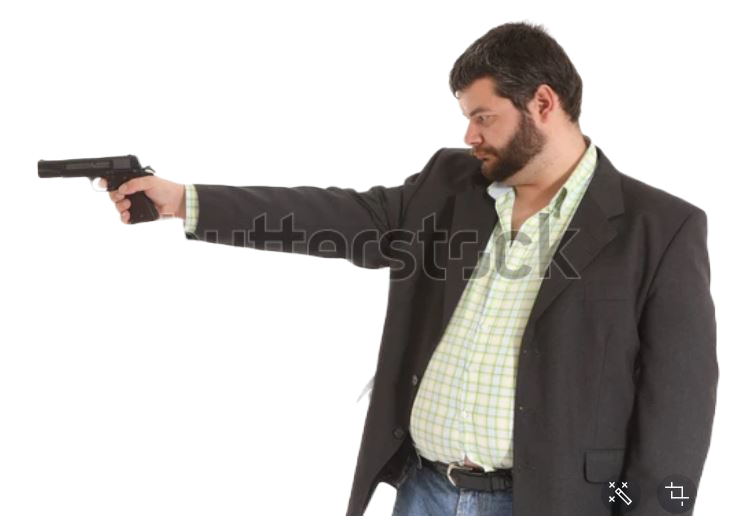
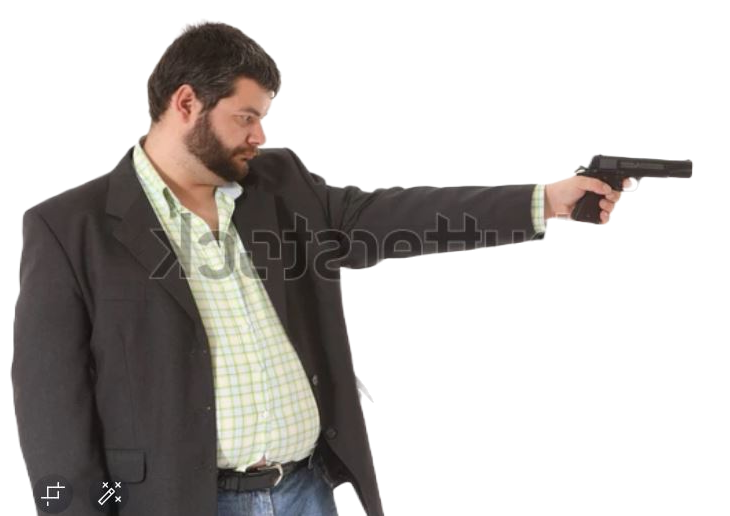
ju

diff --git a/gun oop/sketch.js b/gun oop/sketch.js
@@ -6,6 +6,8 @@
 // - describe what you did to take this project "above and beyond"
 let guy;
 let bulletsAR = [];
+let flash = 0
+let flashimg;
 
 class bullet{
   constructor(x,y){
@@ -14,19 +16,22 @@ class bullet{
     this.dx = 5;
   }
   move(){
-    this.x -= this.dx;
+    this.x += this.dx;
   }
   display(){
-    fill("black");
-    circle(this.x,this.y,20);
+    fill("grey");
+    circle(this.x+40,this.y,20);
+    fill("yellow")
+    rect(this.x,this.y-10,40,20)
   }
   delete(){
-    return this.x < 0;
+    return this.x > width;
   }
 }
 
 function preload(){
   guy = loadImage("guy w gun.png");
+  flashimg = loadImage("flash.png")
 }
 
 function setup() {
@@ -35,7 +40,11 @@ function setup() {
 
 function draw() {
   background(220);
-  image(guy,width-guy.width,0);
+  image(guy,0,0);
+  if (flash > 0){
+    image(flashimg,690,125)
+    flash --
+      }
   for (let i = bulletsAR.length-1; i > 0; i --){
     bulletsAR[i].display();
     bulletsAR[i].move();
@@ -43,9 +52,15 @@ function draw() {
       bulletsAR.splice(i, 1);
     }
   }
+  fill("white")
+rect(1151,255,55,20)
+fill("black")
+text("GREGory",1151,270)
 }
 
 function mousePressed(){
-  let bullets = new bullet(609,168);
+  let bullets = new bullet(692,168);
   bulletsAR.push(bullets);
+flash = 15
 }
+
